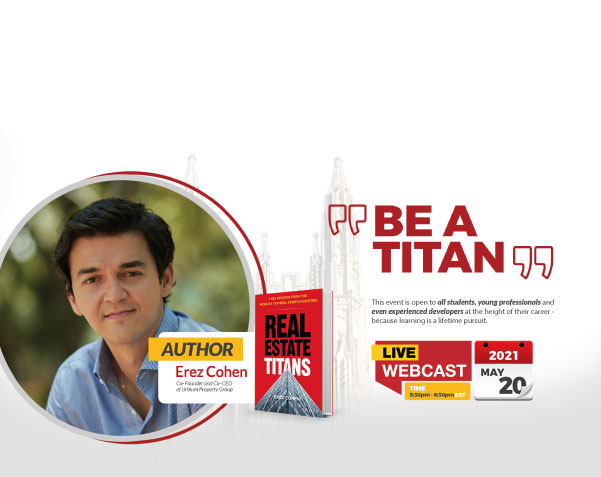
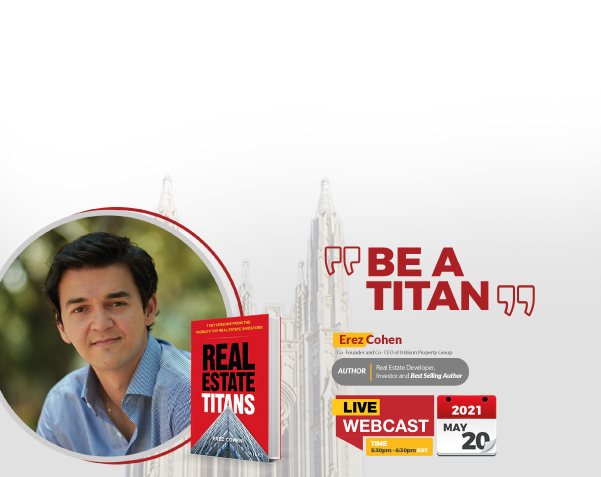
commit data

diff --git a/nova-events.html b/nova-events.html
@@ -109,12 +109,11 @@
       </div>   
     </nav> 
     
-    <section class="section section-top section-full webEvent">
-        <!-- <div class="bg-novartp" style="background-image: url(assets/img/WEBSITE_01.png);"></div>  -->
-        <img class="bg-titan" src="assets/img/WEBSITE_01.png" style="width: 100%; height: auto;"/> 
+    <section class="section section-top section-full webEvent"> 
+        <img class="bg-titan" src="assets/img/WEBSITE2fn-01.png" style="width: 100%; height: auto;"/> 
     </section>
 
-    <section class="section section-top section-full webEvent" style="margin-top: 7rem;">   
+    <section class="section section-top section-full webEvent" style="margin-top: 9rem;">   
       <div class="container bg-white shadow py-5 px-4 p-md-6">  
             <div class="row">
                   <div class="col-md-12">
@@ -133,8 +132,8 @@
                 <h1 style="font-family: 'Lato-Black'; margin-left: 3rem; margin-bottom: 0rem; color: #ad1f24;">REGISTER NOW</h1> 
                 <span class="demio-embed-registration" data-hash="GP4Lj5GH0zbK8jwm" data-api="api/v1" data-base-uri="https://my.demio.com/" data-form-width="87%" data-color="#ad1f24" data-text="REGISTER" ></span> 
               </div> 
-              <div class="col-md-5">  
-                <img src="assets/img/UNIVERSITY-LOGO-2.png" style="max-width: 100%; height: auto;"/> 
+              <div class="col-md-5" style="margin-top: 0px;">  
+                <img src="assets/img/UNIVERSITY-LOGO_new.png" style="max-width: 100%; height: auto;"/> 
               </div>   
             </div> 
       </div>  
